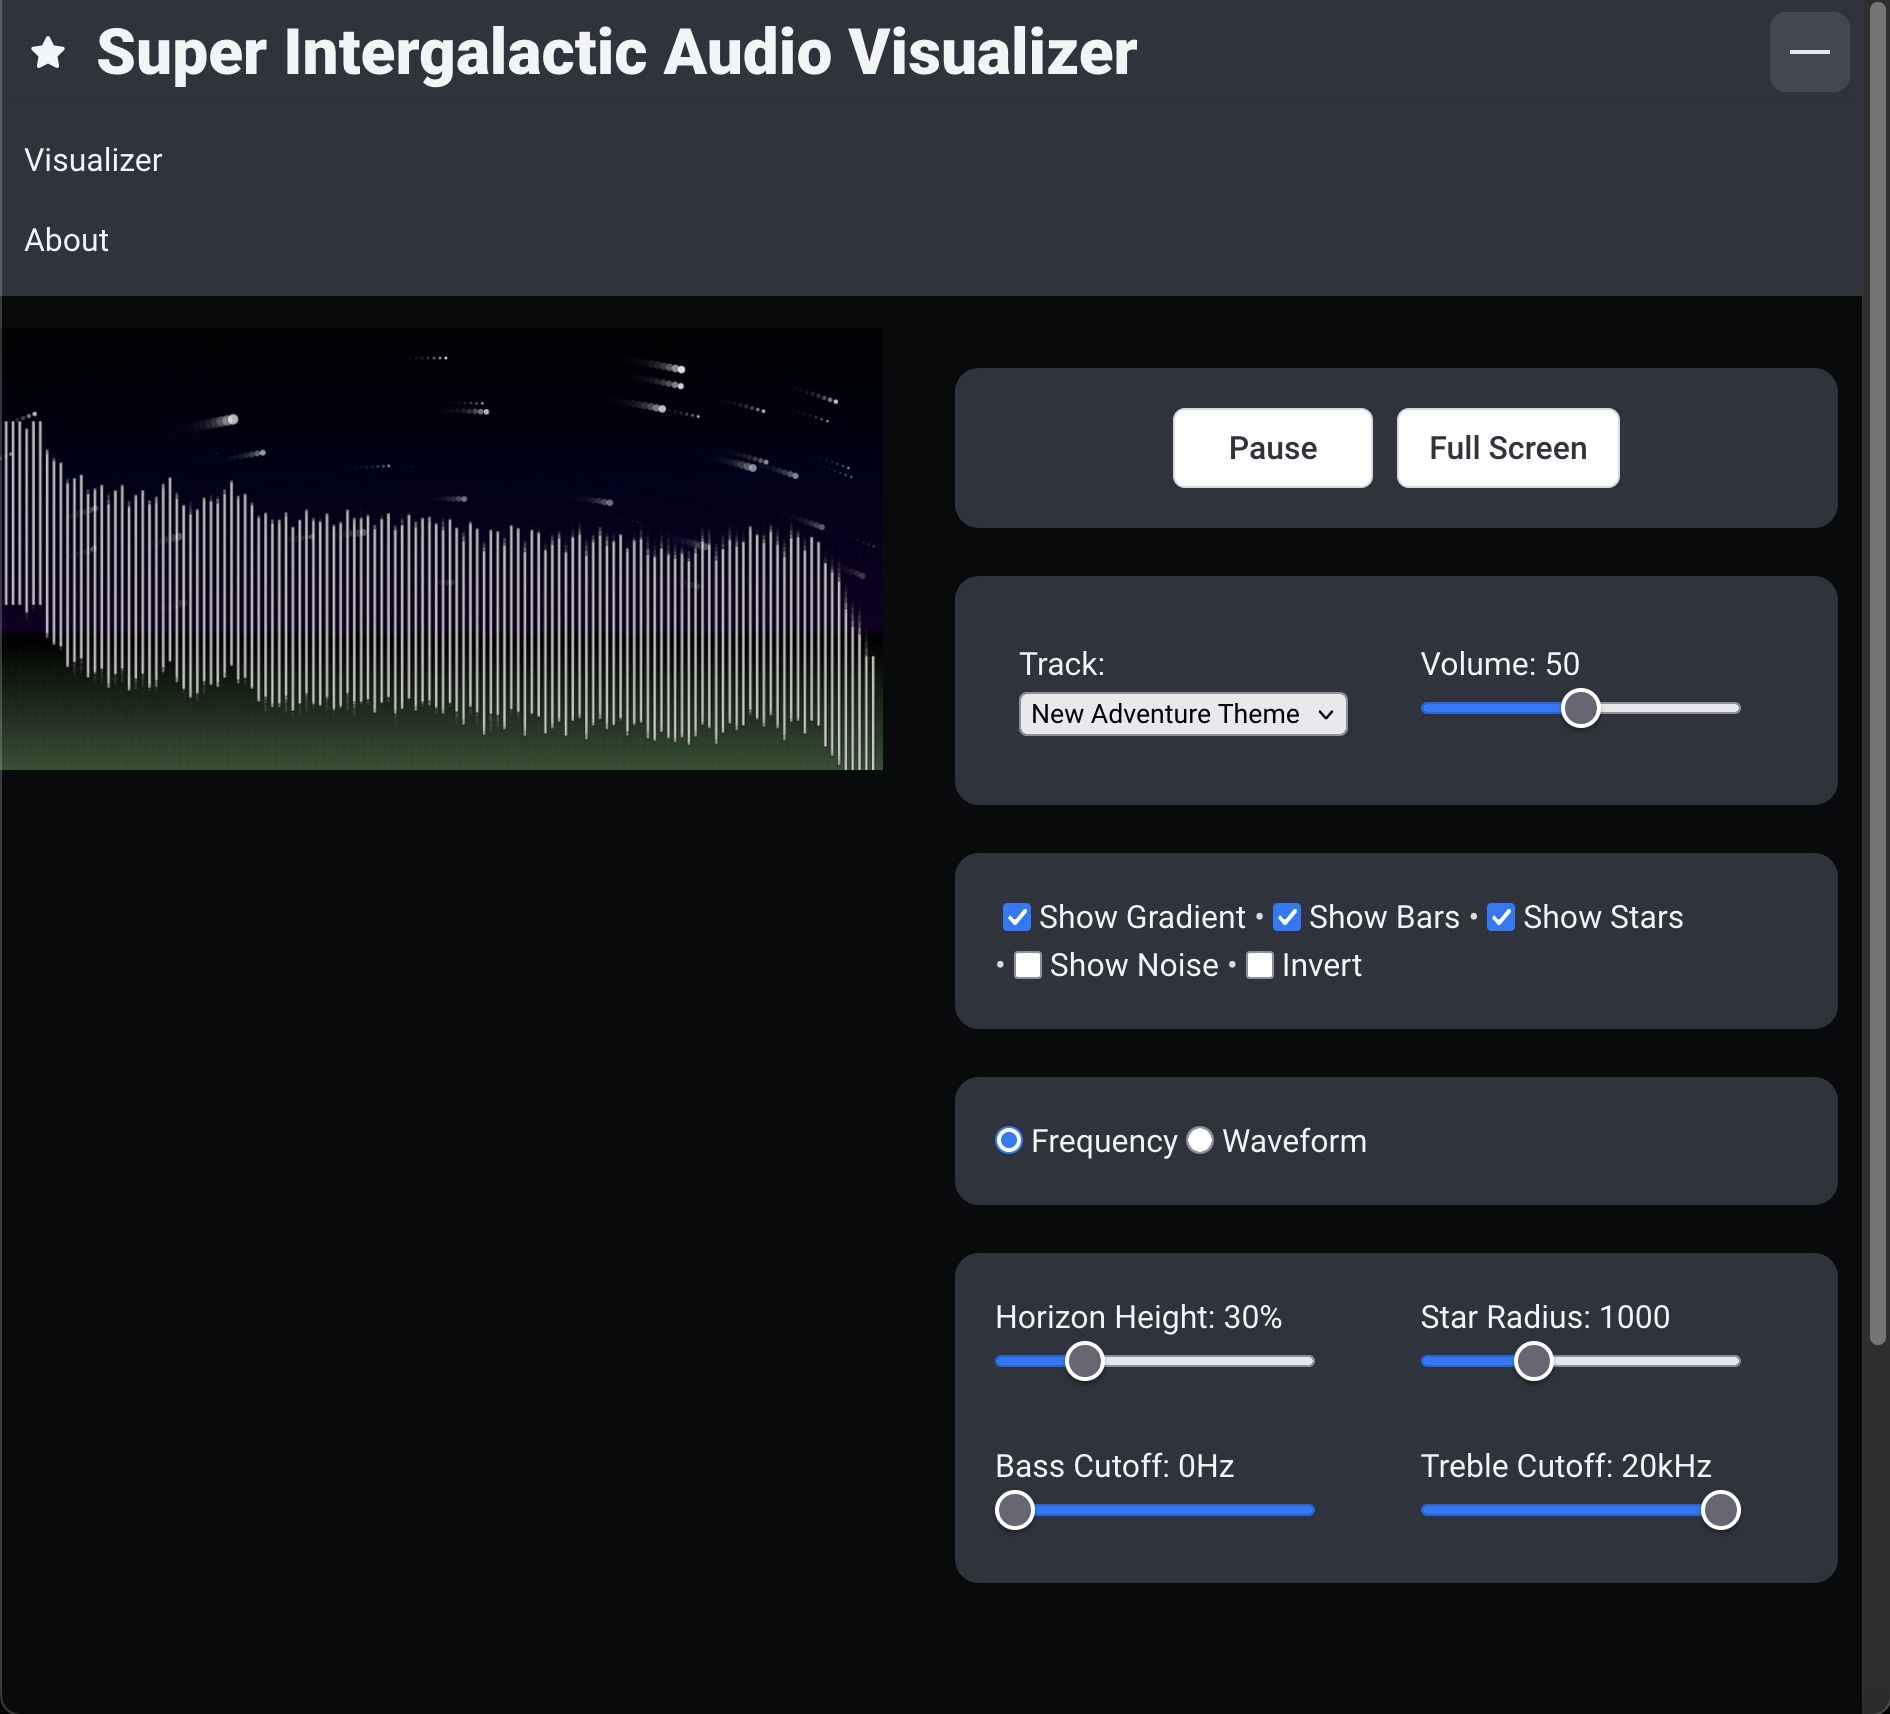
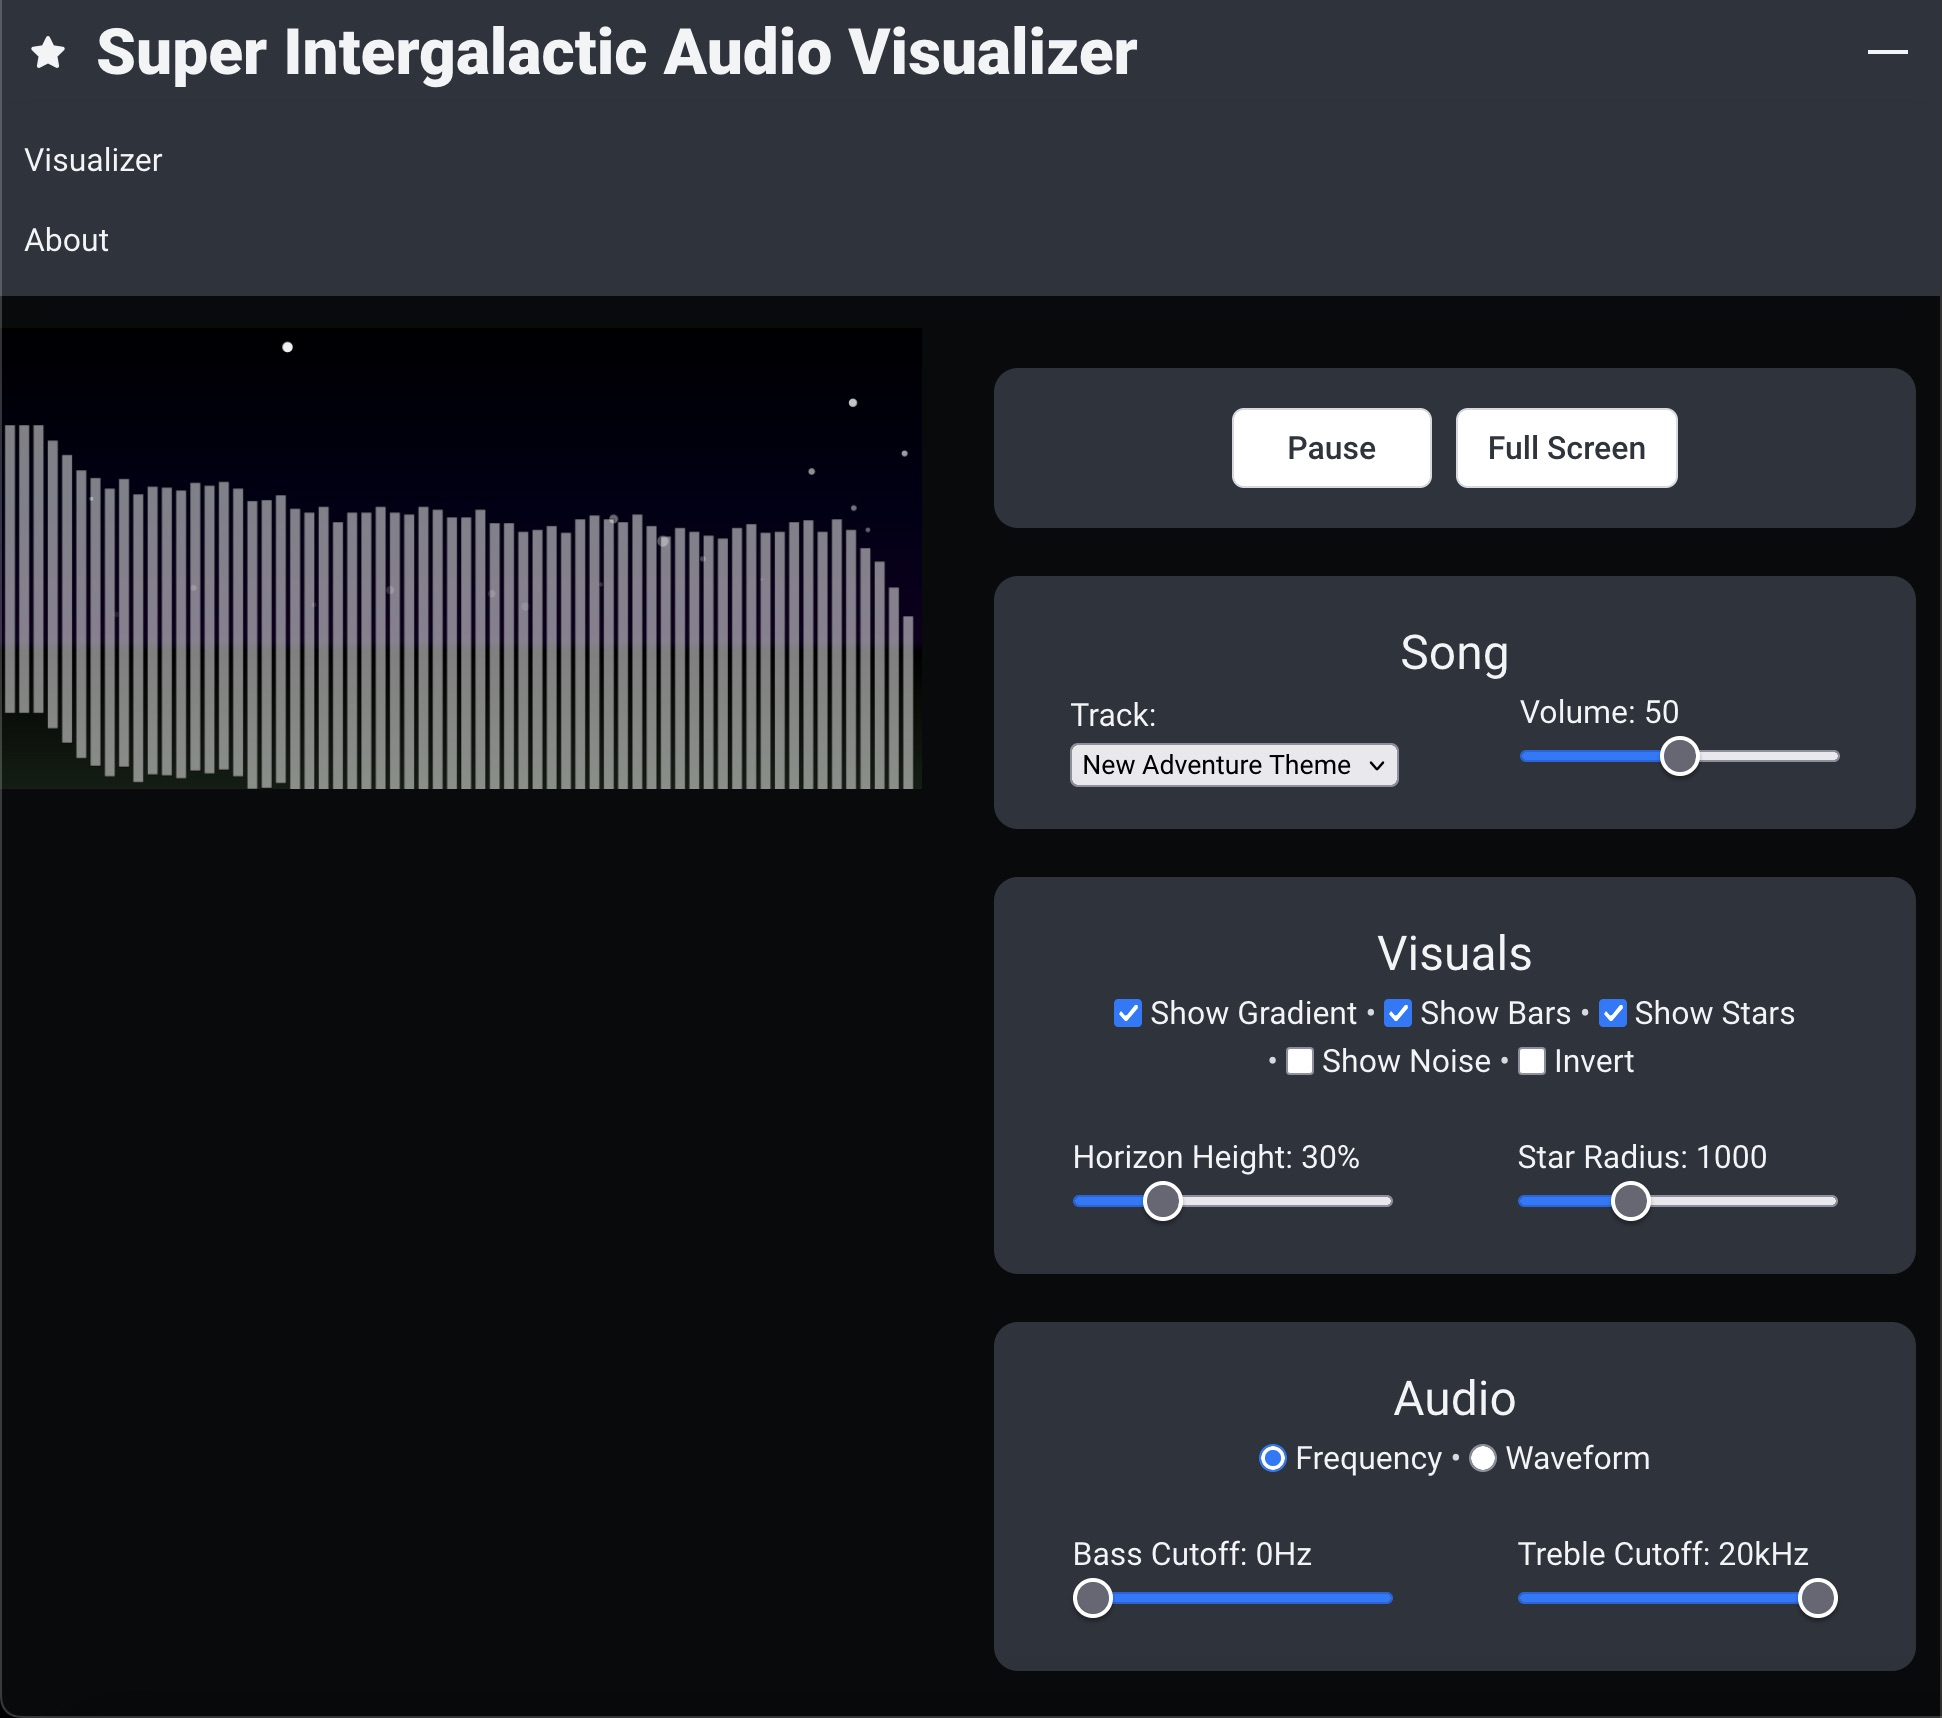
Update Audio Visualizer card with link

diff --git a/data/homepage-projects.tsx b/data/homepage-projects.tsx
@@ -199,12 +199,13 @@ export default [
             },
         ]
     },
-    {title: "Super Intergalactic Audio Visualizer",
-        subtitle: "HTML - TypeScript - Node.js - Bulma - Webpack",
+    {title: "Audio Visualizer",
+        subtitle: "HTML - TypeScript - Node.js - Canvas API - Bulma - Webpack",
         thumbnail: audioVisualizerThumb,
         tags: "web design",
         content: <div>
-            <p>Added EQ filters to web audio player application by interfacing with the WebAudio API. Used Canvas API to render a rotating field of stars, which react to the music. Designed clean, responsive, and modern page layout using the Bulma CSS framework.</p>
+            <p>Added EQ filters to web audio player application by interfacing with the WebAudio API. Used Canvas API to render a rotating field of stars, which each react to a different frequency. Designed clean, responsive, and modern page layout using the Bulma CSS framework.</p>
+            <p><a href="https://people.rit.edu/org7993/PersonalProjects/AudioVisualizer" target="_blank">Click here to use it.</a></p>
         </div>,
         imageList: [
             {